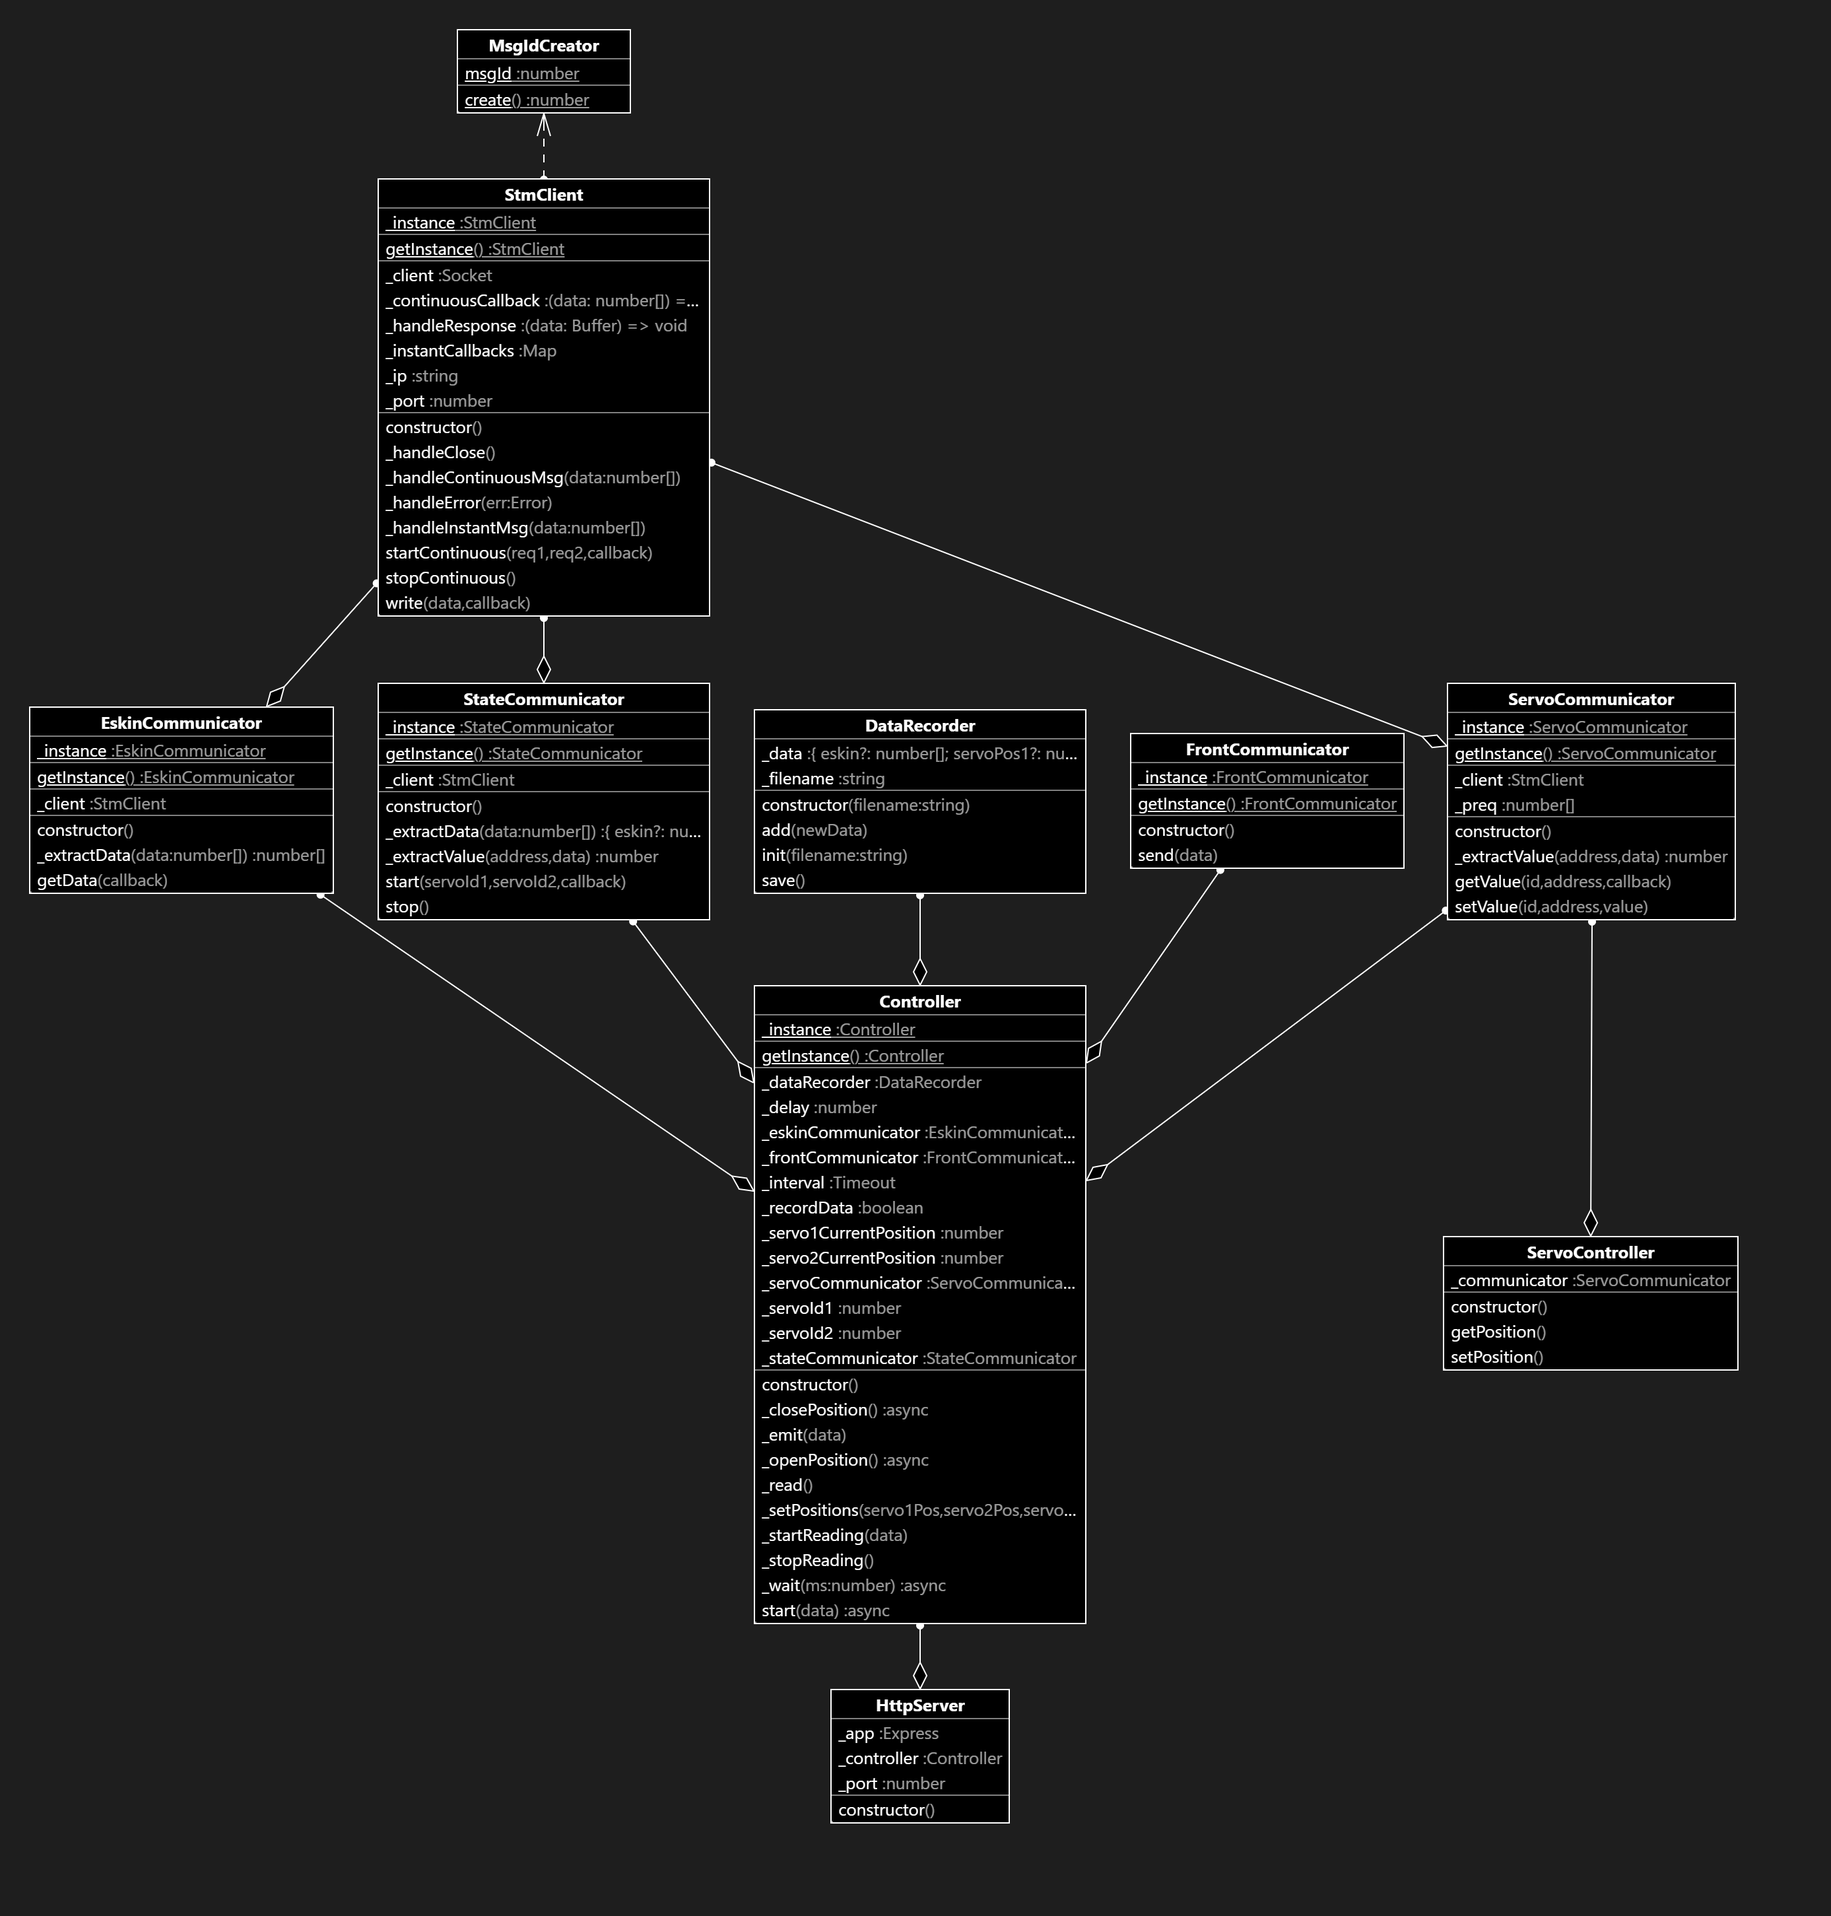
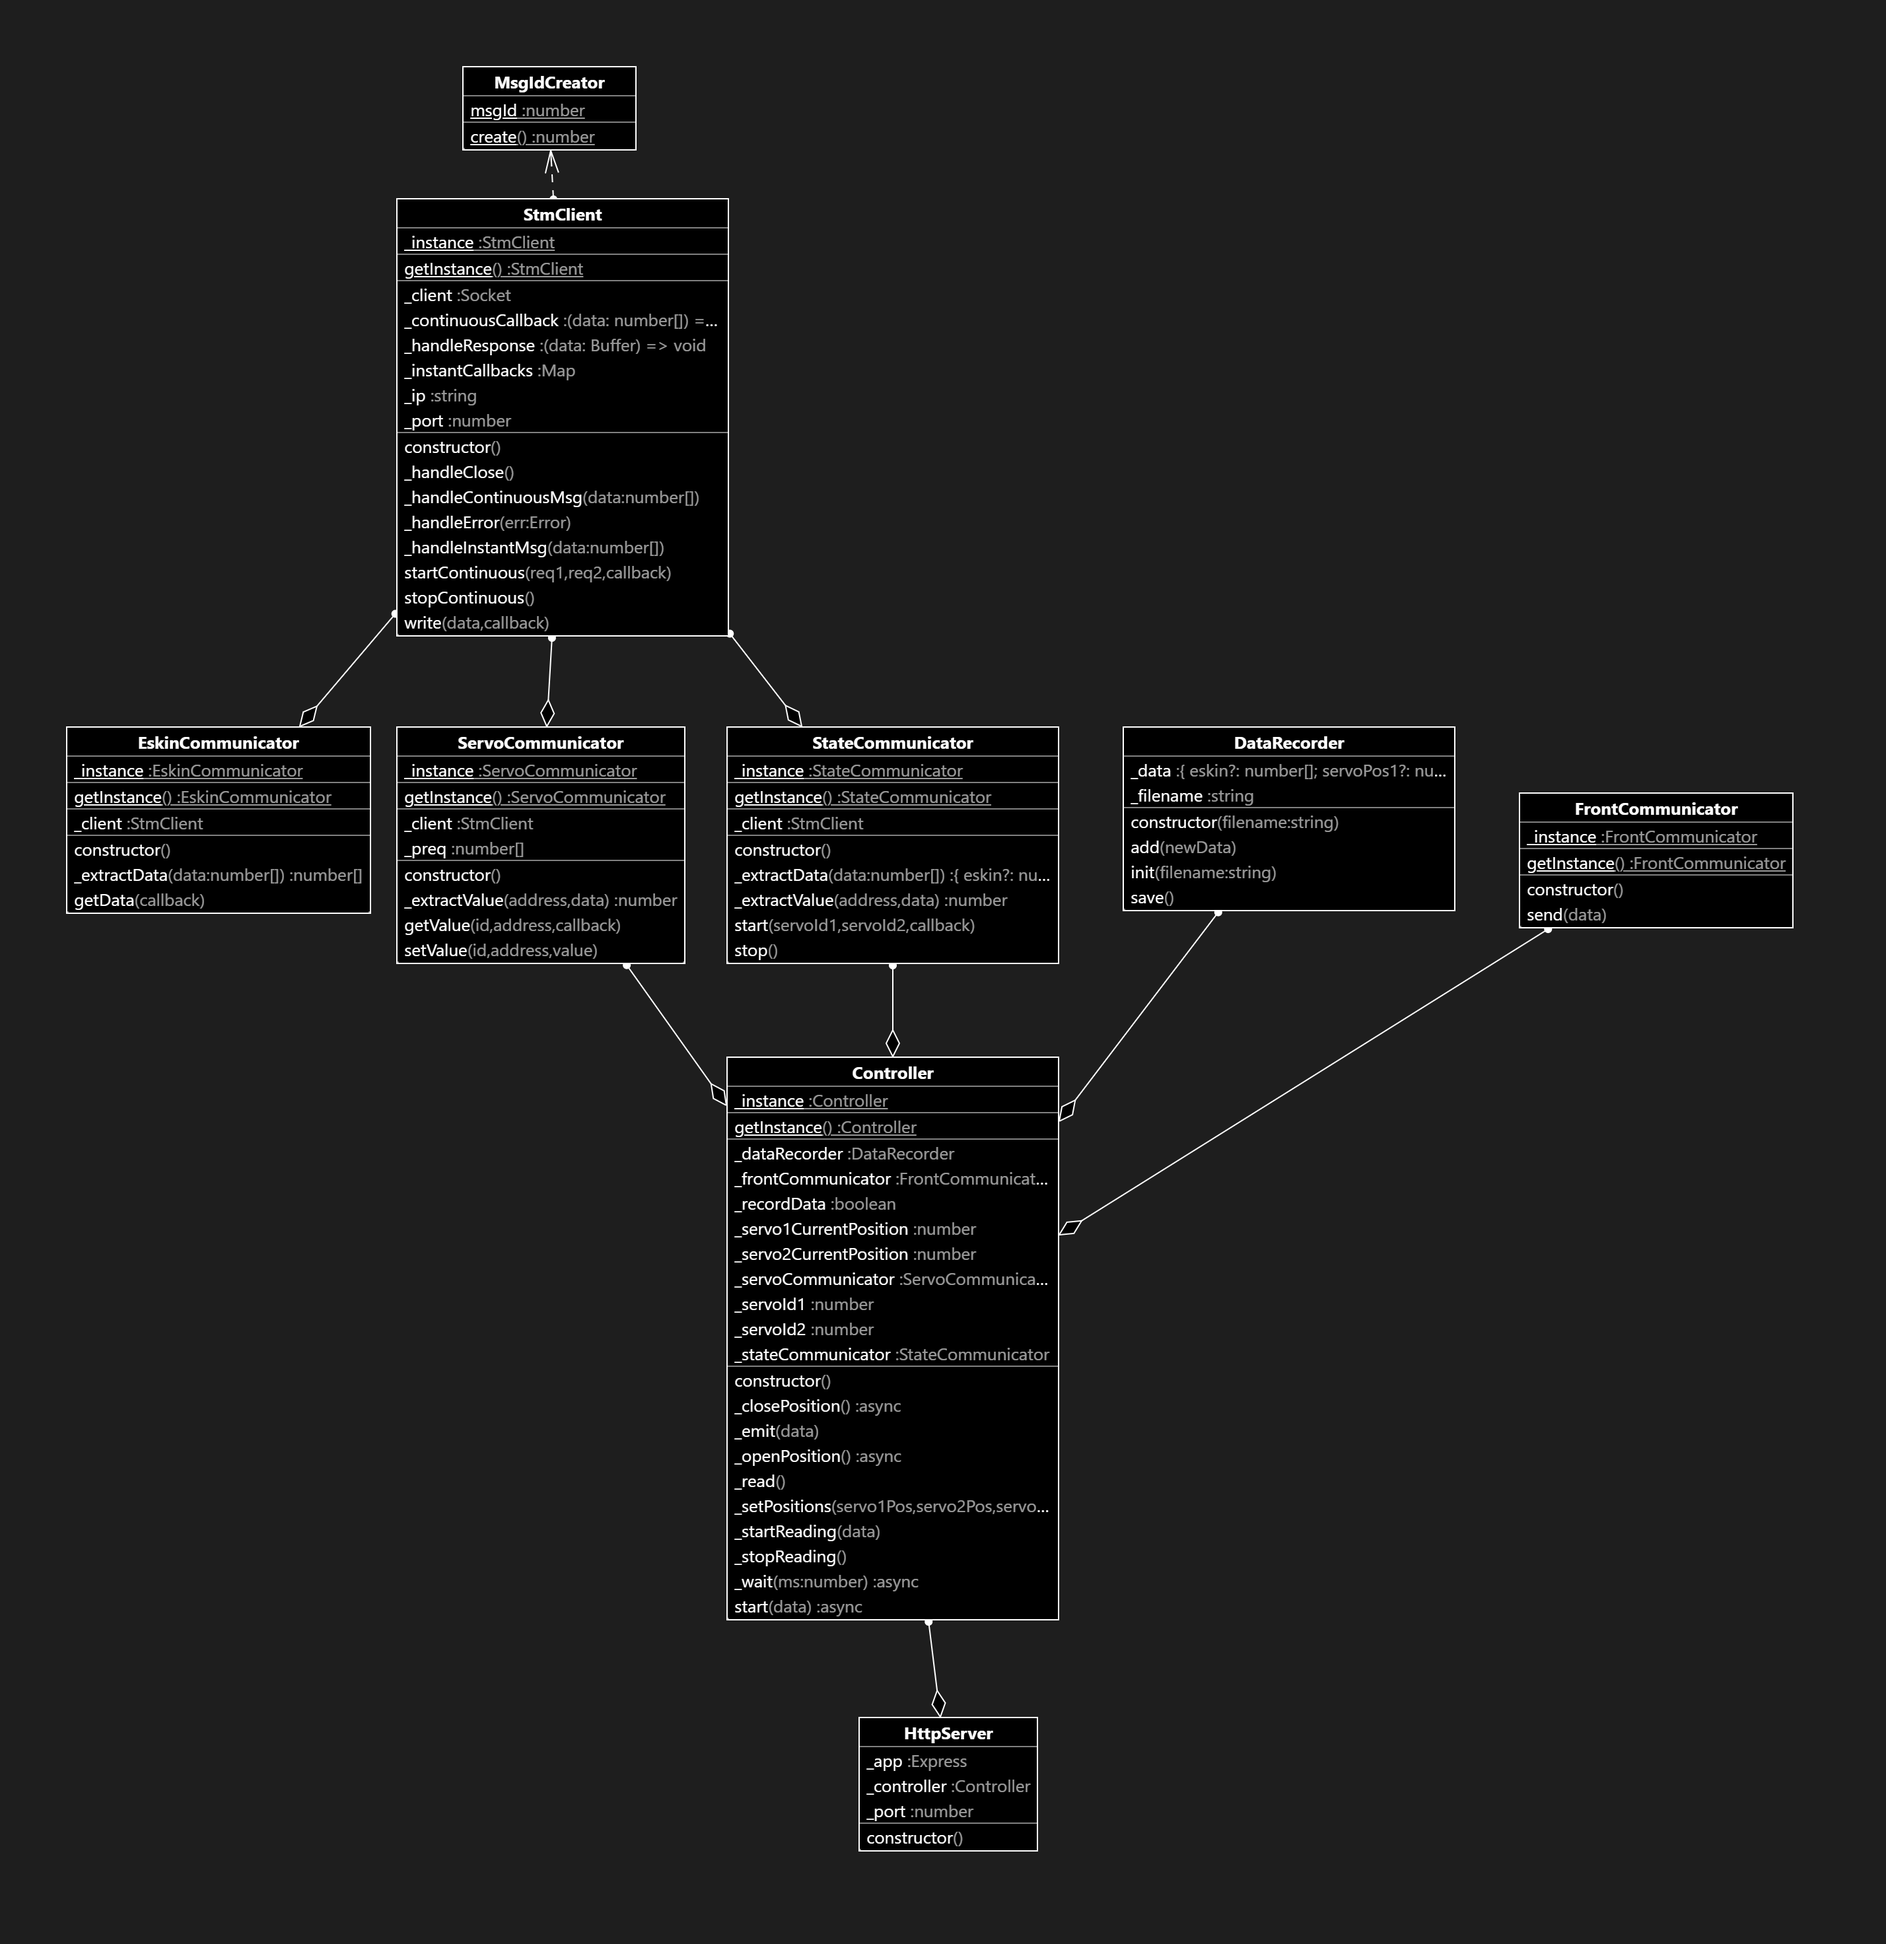
working app without eskin

Changed region(s): [[0.0, 0.0, 0.9611, 0.9614], [0.7751, 0.6203, 0.9611, 0.7133], [0.372, 0.2171, 0.403, 0.2481]]

diff --git a/api/src/StmClient.ts b/api/src/StmClient.ts
@@ -9,12 +9,15 @@ export class StmClient {
     private static _instance: StmClient;
     private _client: Socket;
     private _instantCallbacks: Map<number, (data: number[]) => void>;
+    private _continuousSet: boolean = false;
     private _continuousCallback?: (data: number[]) => void;
+    private _lastMsgTime?: number;
 
     private _ip = process.env.STM_SERVER_IP;
     private _port = parseInt(process.env.STM_SERVER_PORT);
 
     private constructor() {
+        this._instantCallbacks = new Map();
         this._client = dgram.createSocket("udp4");
 
         this._client.on("message", this._handleResponse);
@@ -34,6 +37,7 @@ export class StmClient {
             if (err) throw err;
             console.log("sent start continous");
         });
+        this._continuousSet = true;
     }
 
     stopContinuous() {
@@ -41,8 +45,9 @@ export class StmClient {
         this._continuousCallback = undefined;
         this._client.send(Buffer.from(request), this._port, this._ip, (err) => {
             if (err) throw err;
-            console.log("sent start continous");
+            console.log("sent stop continous");
         });
+        this._continuousSet = false;
     }
 
     write(data: number[], callback: (data: number[]) => void) {
@@ -60,6 +65,13 @@ export class StmClient {
 
     private _handleResponse = (data: Buffer) => {
         const dataArray = Array.from(data);
+        const now = Date.now();
+        if (this._lastMsgTime) {
+            console.log(now - this._lastMsgTime);
+        }
+        this._lastMsgTime = now;
+        // console.log(dataArray);
+        // console.log(this._instantCallbacks.size);
         const type = dataArray.shift();
         switch (type) {
             case MessageType.Instant:
@@ -83,6 +95,7 @@ export class StmClient {
     }
 
     private _handleContinuousMsg(data: number[]) {
+        if (!this._continuousSet) this.stopContinuous();
         this._continuousCallback?.(data);
     }
 

diff --git a/api/src/index.ts b/api/src/index.ts
@@ -4,13 +4,28 @@ import { setupServos } from "./utils/setupServos";
 import { HttpServer } from "./HttpServer";
 import { Address } from "./enums/Address";
 import { ServoCommunicator } from "./communicators/ServoCommunicator";
+import { StateCommunicator } from "./communicators/StateCommunicator";
 
 configDotenv();
 
 // setupServos();
-// new HttpServer();
-ServoCommunicator.getInstance().getValue(11, Address.PresentPosition, () => {});
+new HttpServer();
 
-setInterval(() => {
-    ServoCommunicator.getInstance().getValue(11, Address.PresentPosition, () => {});
-}, 10000);
+// ServoCommunicator.getInstance().getValue(11, Address.PresentPosition, () => {});
+
+// setInterval(() => {
+//     ServoCommunicator.getInstance().getValue(11, Address.PresentPosition, () => {});
+// }, 1000);
+
+// setInterval(() => {
+//     ServoCommunicator.getInstance().setValue(9, Address.GoalPosition, 100);
+//     ServoCommunicator.getInstance().setValue(11, Address.GoalPosition, 100);
+// }, 1000);
+
+// StateCommunicator.getInstance().start(11, 9, (data) => {
+//     // console.log(data);
+// });
+
+// setTimeout(() => {
+//     StateCommunicator.getInstance().stop();
+// }, 5000);

diff --git a/front/src/App.js b/front/src/App.js
@@ -17,8 +17,8 @@ export default function App() {
     // ]);
 
     const [servosParameters, setServosParameters] = useState([
-        { name: "Servo1 position", value: 0 },
-        { name: "Servo2 position", value: 0 },
+        { name: "Servo 1 position:", value: 0 },
+        { name: "Servo 2 position:", value: 0 },
     ]);
 
     useWebSocket(socketUrl, {
@@ -27,8 +27,8 @@ export default function App() {
             const data = JSON.parse(msg.data);
             setValues(data.eskin);
             setServosParameters([
-                { name: "Servo1 position", value: data.servoPos1 },
-                { name: "Servo2 position", value: data.servoPos2 },
+                { name: "Servo 1 position:", value: data.servoPos1 },
+                { name: "Servo 2 position:", value: data.servoPos2 },
             ]);
         },
         shouldReconnect: (closeEvent) => true,

diff --git a/api/src/communicators/StateCommunicator.ts b/api/src/communicators/StateCommunicator.ts
@@ -56,7 +56,7 @@ export class StateCommunicator {
     private _extractData(data: number[]): DataFrame {
         let servoPos1 = -1;
         let servoPos2 = -1;
-        const startIndex = 1;
+        const startIndex = 0;
         const servoData1 = data.slice(startIndex, startIndex + 10);
         if (validateServoResponse(servoData1)) servoPos1 = this._extractValue(Address.PresentPosition, servoData1);
         const servoData2 = data.slice(startIndex + 10, startIndex + 20);

diff --git a/api/src/communicators/ServoCommunicator.ts b/api/src/communicators/ServoCommunicator.ts
@@ -39,8 +39,7 @@ export class ServoCommunicator {
         let array = [id, length, Instruction.Read, address, Size.get(address)];
         array.push(calcCKSM(array));
         array = this._preq.concat(array);
-        this._client.write(array, (data) => {
-            const resp = data.slice(1);
+        this._client.write(array, (resp) => {
             if (!validateServoResponse(resp)) {
                 console.log("validation ERRor");
                 callback(-1);

diff --git a/front/src/styles.css b/front/src/styles.css
@@ -164,12 +164,26 @@ li {
     flex: 1;
 }
 
+.parameterValue {
+    text-align: right;
+    flex: 2;
+    padding: 8px;
+    border: 1px solid #ccc;
+    border-radius: 5px;
+    box-sizing: border-box;
+}
+
+label {
+    font-size: 16px;
+}
+
 input {
     flex: 2;
     padding: 8px;
     border: 1px solid #ccc;
     border-radius: 5px;
     box-sizing: border-box;
+    font-size: 16px;
 }
 
 .filename {

diff --git a/front/src/servoPositionsPrev/Parameter.js b/front/src/servoPositionsPrev/Parameter.js
@@ -3,7 +3,7 @@ export function Parameter({ parameter }) {
     return (
         <li key={parameter.name}>
             <label className="parameterLabel">{parameter.name}</label>
-            <input type="number" value={parameter.value} />
+            <label className="parameterValue">{parameter.value}</label>
         </li>
     );
 }
